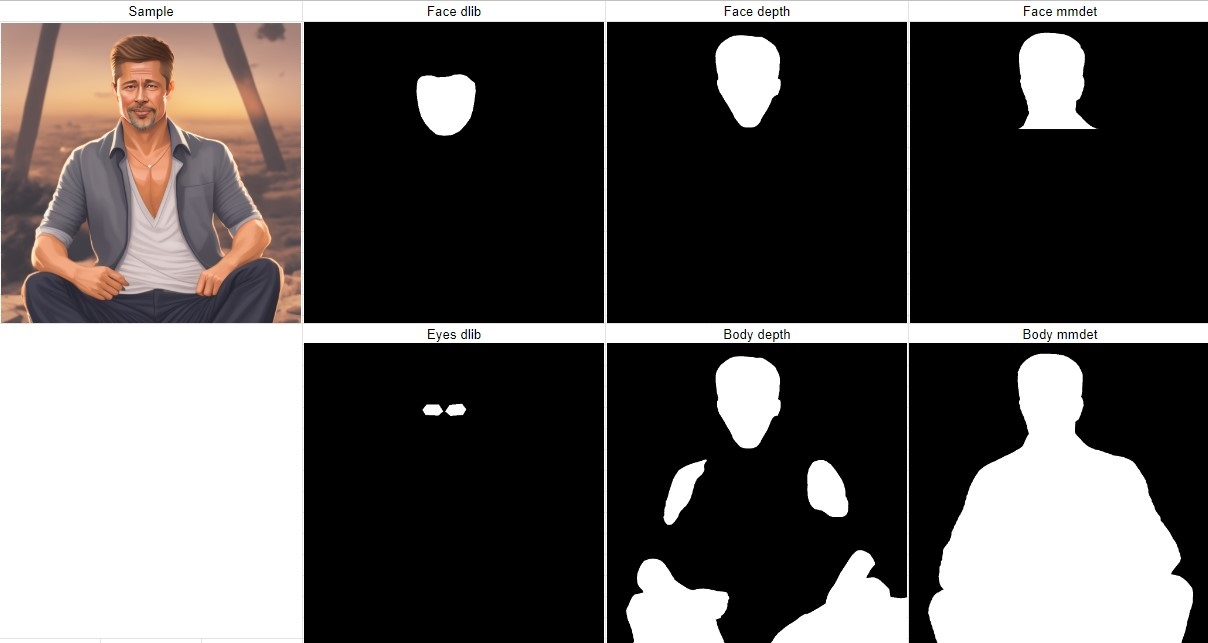
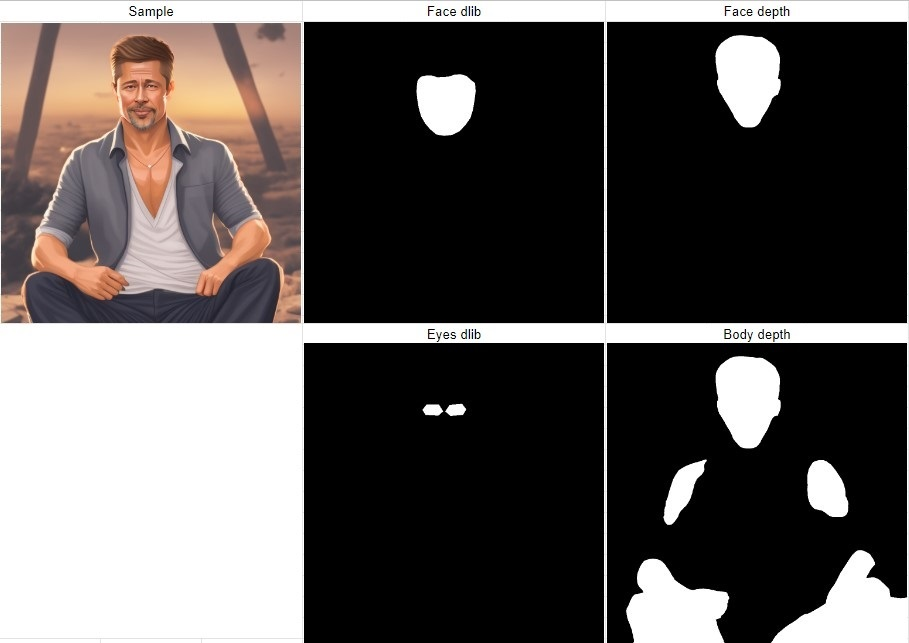
mmdet and its dependencies removed for now

diff --git a/install.py b/install.py
@@ -7,7 +7,9 @@ from modules.sd_models import model_hash
 from modules import modelloader
 from basicsr.utils.download_util import load_file_from_url
 
+include_mmdet = False
 dd_models_path = os.path.join(models_path, "mmdet")
+
 
 def list_models(model_path):
     model_list = modelloader.load_models(model_path=model_path, ext_filter=[".pth"])
@@ -37,30 +39,34 @@ def list_models(model_path):
 
 python = sys.executable
 
-run(f'"{python}" -m pip install lightning-utilities==0.4.0', desc=None, errdesc=f"Couldn't install lightning-utilities")
-run(f'"{python}" -m pip install pytorch-lightning==1.7.6', desc=None, errdesc=f"Couldn't install pytorch-lightning")
+if include_mmdet:
+    run(f'"{python}" -m pip install lightning-utilities==0.4.0', desc=None, errdesc=f"Couldn't install lightning-utilities")
+    run(f'"{python}" -m pip install pytorch-lightning==1.7.6', desc=None, errdesc=f"Couldn't install pytorch-lightning")
 
 if not is_installed("cmake"):
     run(f'"{python}" -m pip install cmake', desc="Installing cmake", errdesc="Couldn't install cmake")
 
-if not is_installed("dlib"):
+if not is_installed("setuptools"):
     run(f'"{python}" -m pip install setuptools', desc="Installing setuptools", errdesc="Couldn't install setuptools")
+
+if not is_installed("dlib"):
     try:
         run(f'"{python}" -m pip install dlib==19.24.0', desc="Installing dlib", errdesc="Couldn't install dlib")
     except Exception as e:
-        print("----------------------------------------")
+        print(e)
+        print("----------------------------------------------")
         print("Failed building wheel for dlib")
         print("ERROR: CMake must be installed to build dlib")
         print("Install cmake from https://cmake.org/download/")
-        print("----------------------------------------")
+        print("----------------------------------------------")
 
 
-if not is_installed("mmdet"):
-    run(f'"{python}" -m pip install openmim==0.3.5', desc="Installing openmim", errdesc="Couldn't install openmim")
+if include_mmdet and not is_installed("mmdet"):
+    run(f'"{python}" -m pip install -U openmim==0.3.3', desc=None, errdesc="Couldn't install openmim")
     run(f'"{python}" -m mim install mmcv-full==1.7.1', desc=f"Installing mmcv-full", errdesc=f"Couldn't install mmcv-full")
     run(f'"{python}" -m pip install mmdet==2.27.0', desc=f"Installing mmdet", errdesc=f"Couldn't install mmdet")
 
-if (len(list_models(dd_models_path)) == 0):
+if include_mmdet and (len(list_models(dd_models_path)) == 0):
     print("No detection models found, downloading...")
     bbox_path = os.path.join(dd_models_path, "bbox")
     segm_path = os.path.join(dd_models_path, "segm")

diff --git a/scripts/eyemask/mask_generator.py b/scripts/eyemask/mask_generator.py
@@ -7,7 +7,12 @@ import numpy as np
 from PIL import Image, ImageDraw
 from .constants import script_models_dir
 from .utils import expand_polygon, calculate_distance
-from .modules import depthmap, mmdetdd
+from .modules import depthmap
+
+try:
+    from .modules import mmdetdd
+except Exception as e:
+    pass
 
 depthmap_generator = depthmap.SimpleDepthMapGenerator()
 

diff --git a/scripts/eyemask/script.py b/scripts/eyemask/script.py
@@ -16,8 +16,8 @@ class EyeMasksCore():
         'Face dlib',
         'Face depth',
         'Body depth',
-        'Face mmdet',
-        'Body mmdet'
+        # 'Face mmdet',
+        # 'Body mmdet'
     ]
 
     MASK_TYPE_EYES_DLIB = utils.index(MASK_TYPES, 'Eyes dlib')

diff --git a/README.md b/README.md
@@ -26,20 +26,11 @@ Put all wildcards files in */wildcards* dir.
 Use *Install from URL* option with this repo url.
 
 ### Requirements
-
-- openmim==0.3.5
-- mmcv-full==1.7.1
-- mmdet==2.27.0
-- lightning-utilities==0.4.0
-- pytorch-lightning==1.7.6
 - dlib==19.24.0
 - setuptools
+- cmake
 
-All requirements will be installed on first use, except for:
- - [cmake](https://cmake.org/download/) - used only for dlib masks
-
-**NOTE:** Some of these packages are incompatible with newer versions of **lightning-utilities** and **pytorch-lightning**. If some other extensions you use require newer versions, they will be incompatible with this extension.
-
+All requirements will be installed on first use.
 
 ### Mask types
 
@@ -47,8 +38,6 @@ All requirements will be installed on first use, except for:
 2. Face dlib
 3. Face depthmask
 4. Body depthmask
-5. Face mmdet
-6. Body mmdet
 
 ### Examples
 
